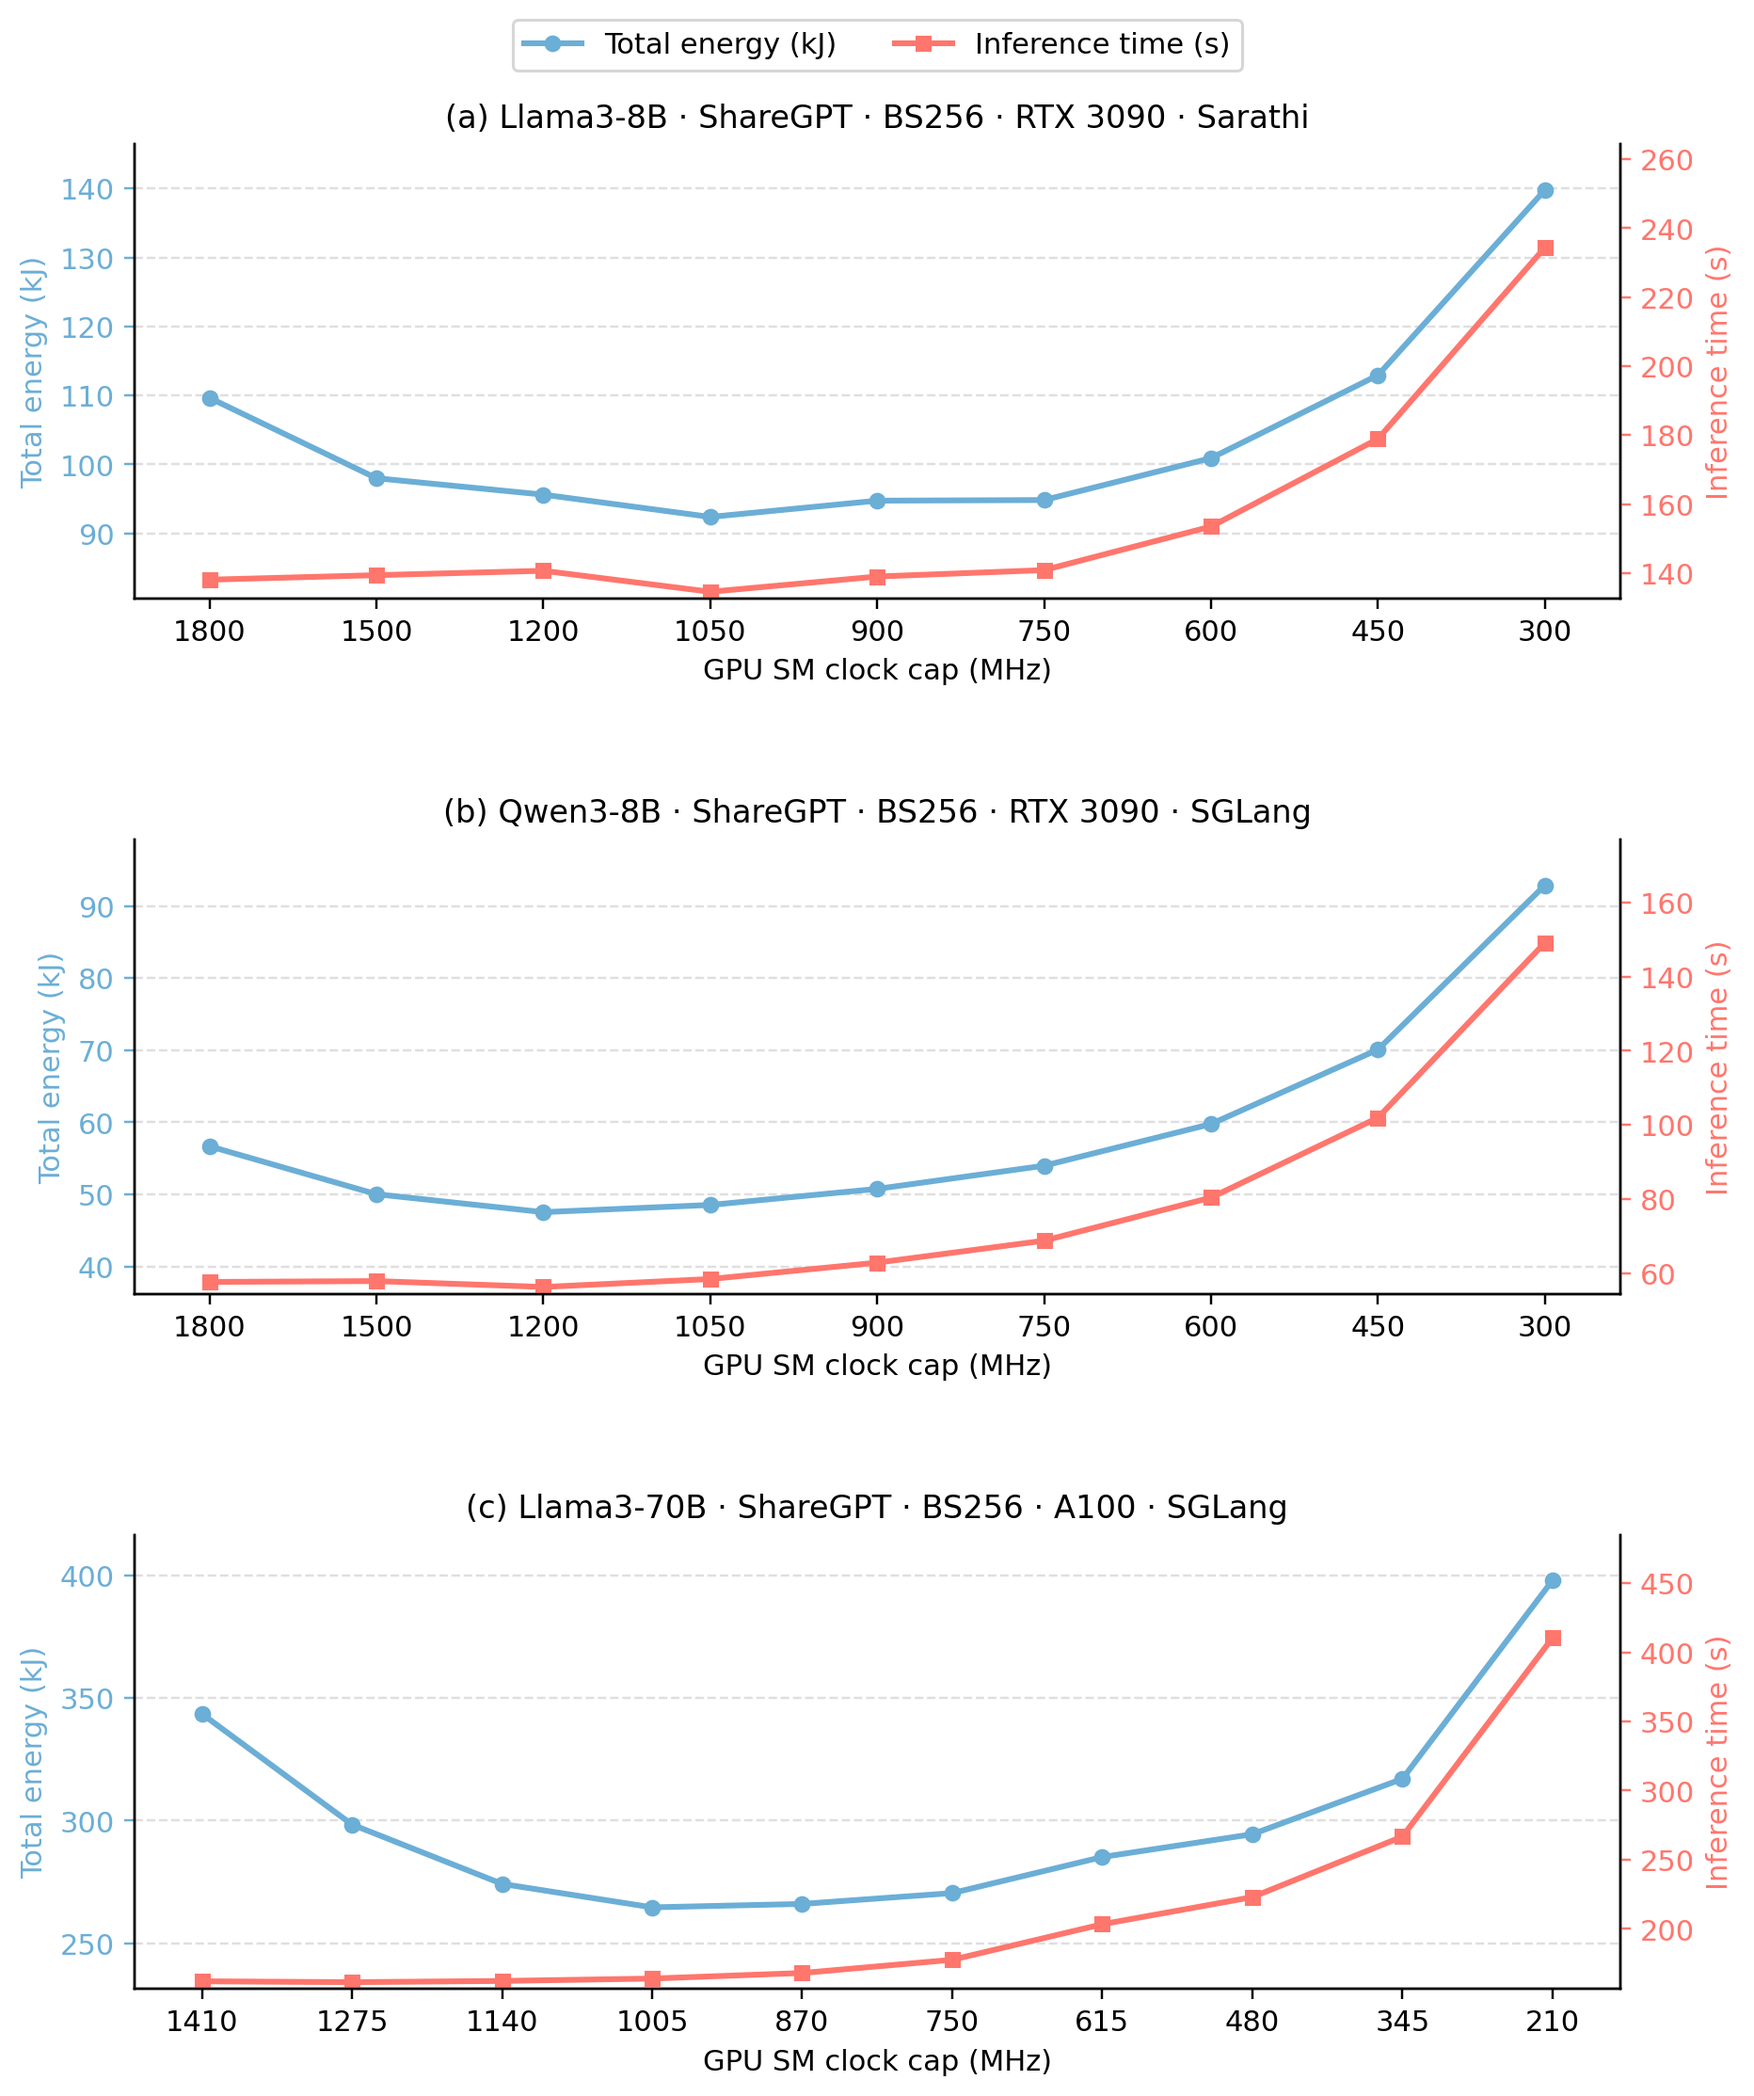
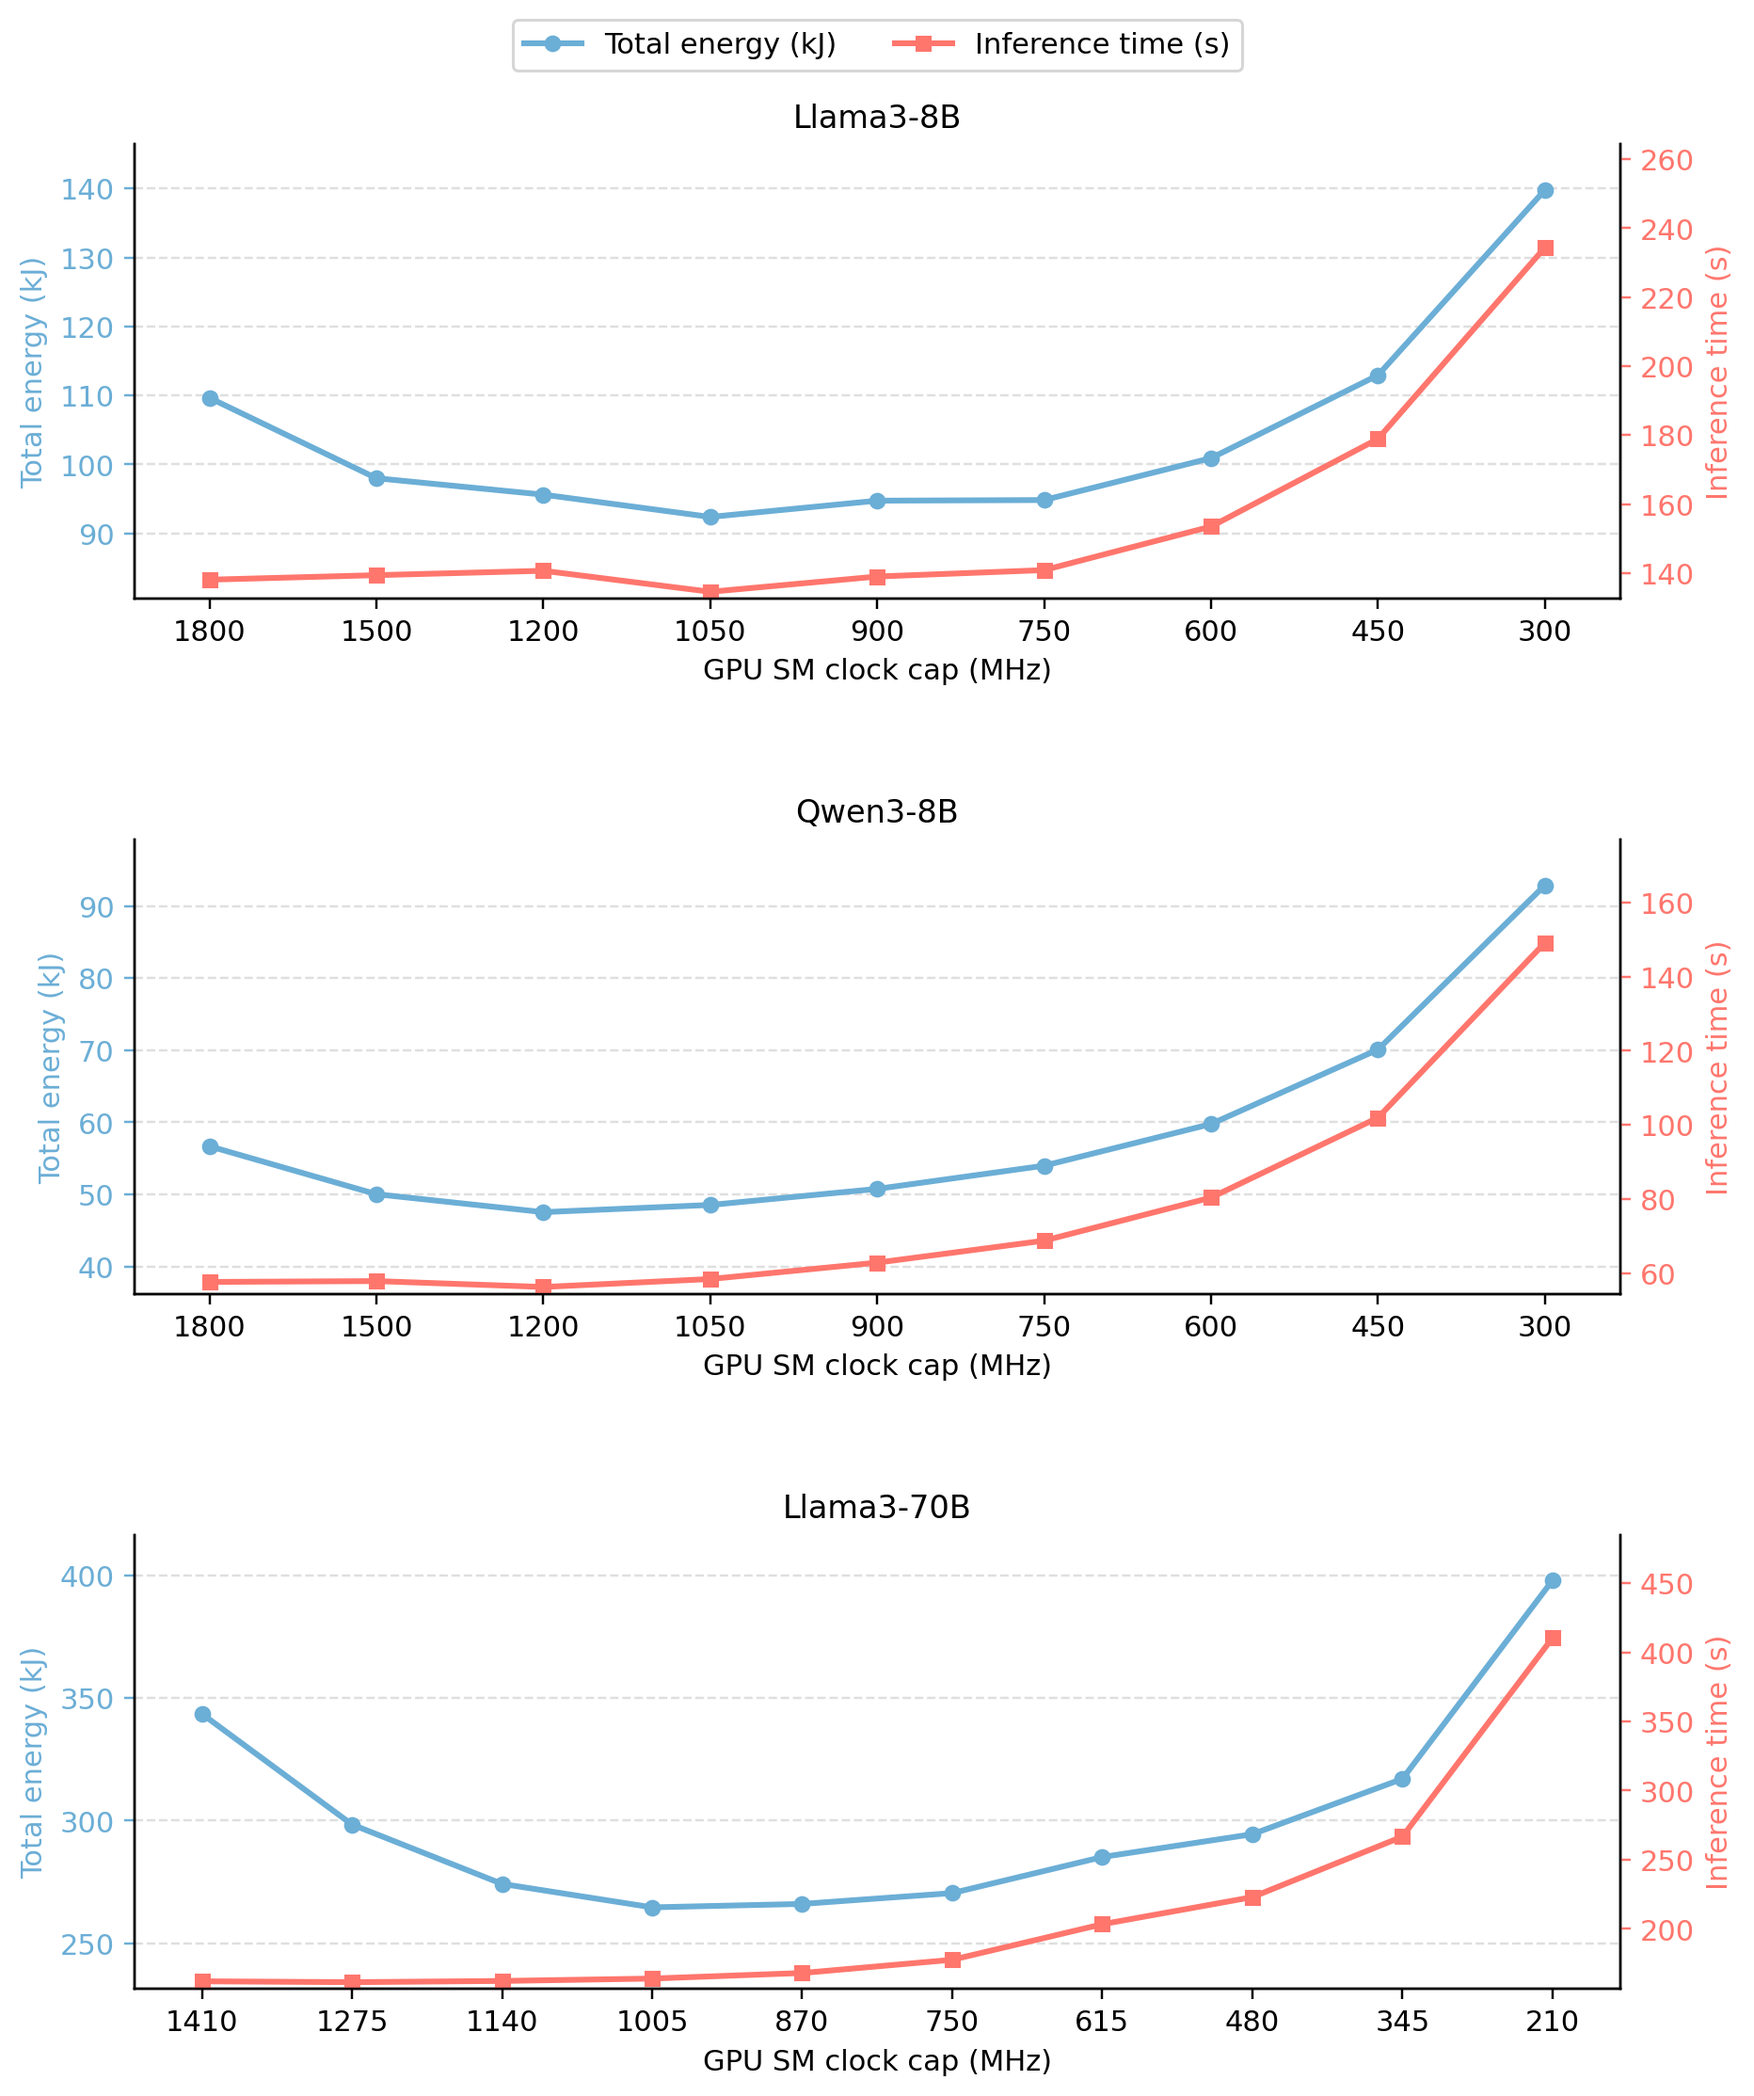
Simplify Fig 11 panel titles to model names

diff --git a/figures/hcw_figures/fig11_sharegpt_three_models_bs256_20261018/plot.py b/figures/hcw_figures/fig11_sharegpt_three_models_bs256_20261018/plot.py
@@ -14,9 +14,9 @@ import numpy as np
 HERE = Path(__file__).resolve().parent
 OUTPUT = HERE.parent / "Fig11_sharegpt_three_models_bs256_output2_20261018"
 PANELS = (
-    ("sarathi", "(a) Llama3-8B · ShareGPT · BS256 · RTX 3090 · Sarathi"),
-    ("qwen", "(b) Qwen3-8B · ShareGPT · BS256 · RTX 3090 · SGLang"),
-    ("a100", "(c) Llama3-70B · ShareGPT · BS256 · A100 · SGLang"),
+    ("sarathi", "Llama3-8B"),
+    ("qwen", "Qwen3-8B"),
+    ("a100", "Llama3-70B"),
 )
 ENERGY = "#6baed6"
 TIME = "#ff766d"
